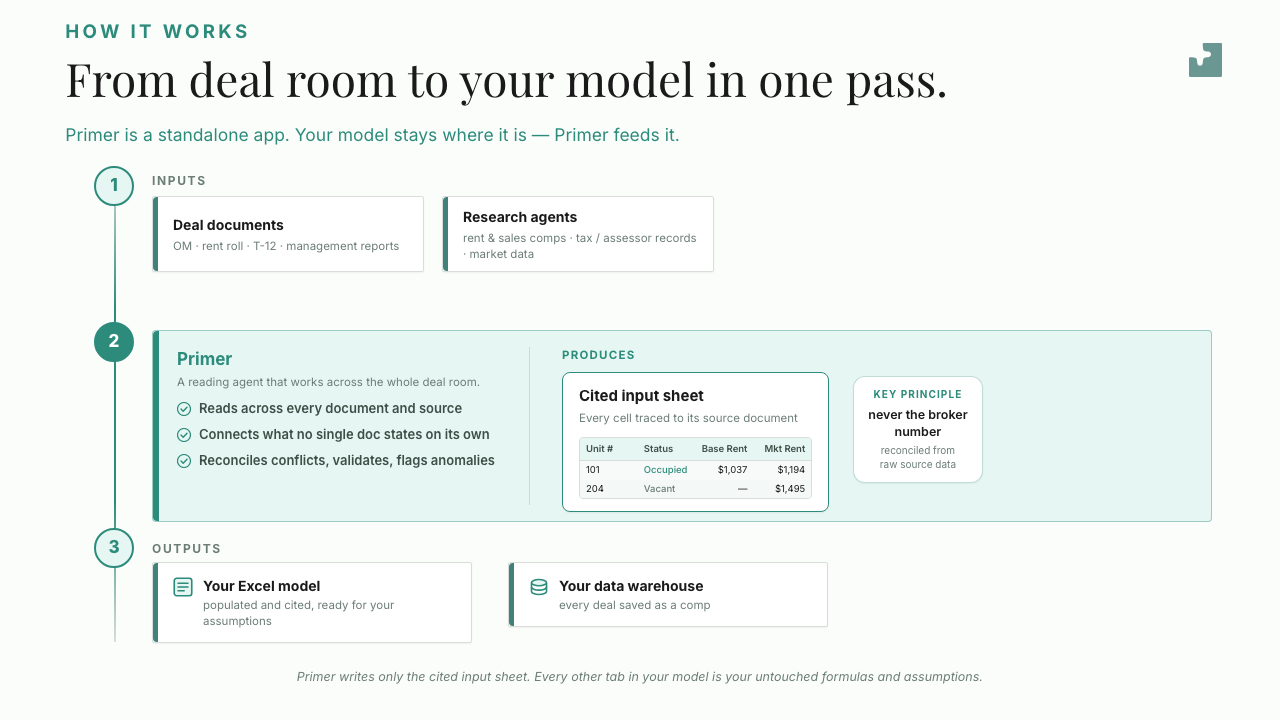
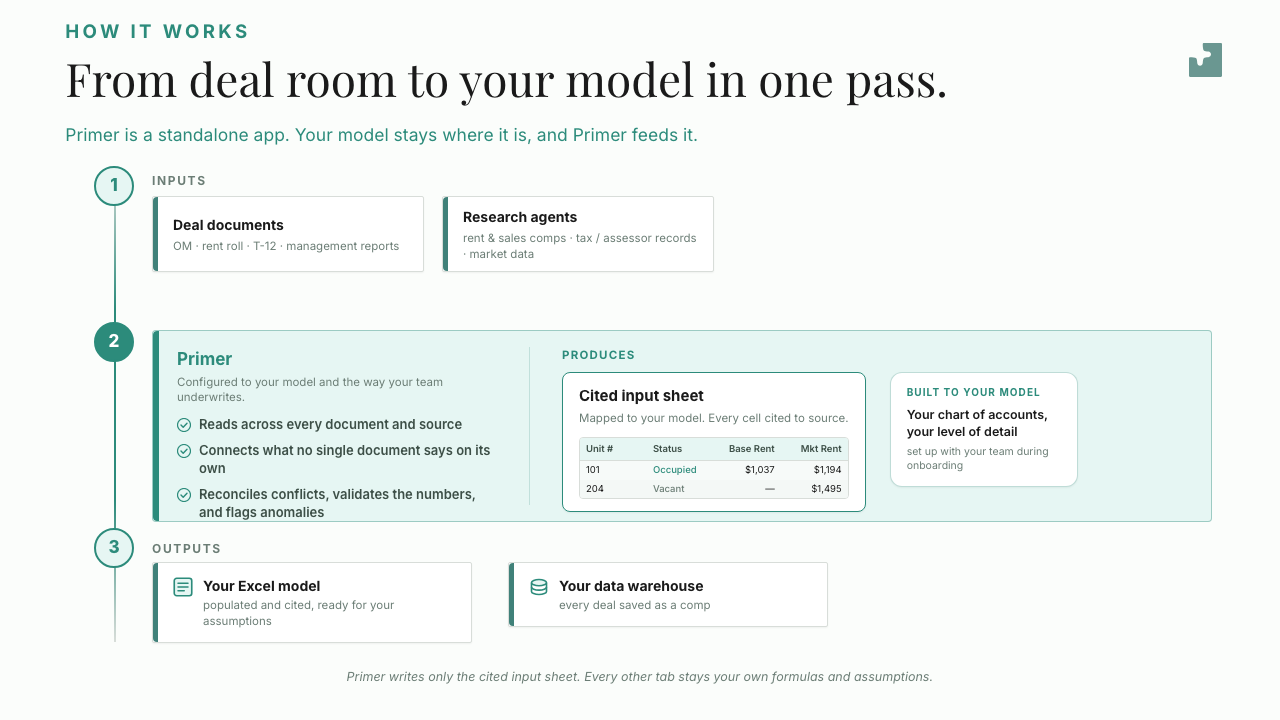
Plain-language copy pass on A1 and B3; lead with "your model"
Ran the copy through the plain-writing reference: simpler words, one idea per
cell, no em dashes, less text per card. The overarching message is now that this
runs in the customer's own model, on their chart of accounts, at their level of
detail, set up with them.

A1 — sub trimmed and reframed to "runs on your chart of accounts and the way
your team underwrites, set up with you." Card 1 now says Primer writes one input
tab mapped to your chart of accounts and your level of detail. Card 2 drops the
"not a full underwrite" line and is a single clear sentence (also fixes the tight
bottom spacing). Card 3 and warehouse line de-dashed and tightened.

B3 — removed the "reading agent" subtitle (it undersold the product) and
replaced it with "Configured to your model and the way your team underwrites."
Removed the "never the broker number" card and put a "Built to your model — your
chart of accounts, your level of detail, set up with your team" callout in its
place. The cited input sheet now reads "Mapped to your model. Every cell cited to
source." Verbs and footer tightened and de-dashed.

B1 left as-is per direction (only A1 and B3 this pass).

diff --git a/B3-numbered-flow.html b/B3-numbered-flow.html
@@ -17,7 +17,7 @@
 
   <div class="b left-[65.3px] top-[18.2px] eyebrow text-[18.7px] tr-179">HOW IT WORKS</div>
   <h2 class="b left-[65.3px] top-[54px] w-[900px] title text-[46px]">From deal room to your model in one pass.</h2>
-  <div class="b left-[65.3px] top-[122px] text-teal text-[17.5px]">Primer is a standalone app. Your model stays where it is — Primer feeds it.</div>
+  <div class="b left-[65.3px] top-[122px] text-teal text-[17.5px]">Primer is a standalone app. Your model stays where it is, and Primer feeds it.</div>
 
   <!-- ── LEFT SPINE with step numbers ──────────────────────── -->
   <!-- Spine line: from ~y=166 to y=646 at x=114 -->
@@ -65,7 +65,7 @@
       <!-- Left: Primer title + verbs -->
       <div class="flex-shrink-0 w-[320px]">
         <div class="text-[17px] font-bold text-teal">Primer</div>
-        <div class="text-[11.5px] text-muted mt-0.5 mb-2.5 leading-snug">A reading agent that works across the whole deal room.</div>
+        <div class="text-[11.5px] text-muted mt-0.5 mb-2.5 leading-snug">Configured to your model and the way your team underwrites.</div>
         <div class="space-y-2">
           <div class="flex items-start gap-2">
             <svg width="14" height="14" viewBox="0 0 14 14" fill="none" class="flex-shrink-0 mt-[2px]"><circle cx="7" cy="7" r="6.5" stroke="#2C8B7B" stroke-width="1.2"/><path d="M4 7l2.2 2.2 3.8-4" stroke="#2C8B7B" stroke-width="1.4" stroke-linecap="round" stroke-linejoin="round"/></svg>
@@ -73,11 +73,11 @@
           </div>
           <div class="flex items-start gap-2">
             <svg width="14" height="14" viewBox="0 0 14 14" fill="none" class="flex-shrink-0 mt-[2px]"><circle cx="7" cy="7" r="6.5" stroke="#2C8B7B" stroke-width="1.2"/><path d="M4 7l2.2 2.2 3.8-4" stroke="#2C8B7B" stroke-width="1.4" stroke-linecap="round" stroke-linejoin="round"/></svg>
-            <span class="text-[13px] font-semibold text-body leading-snug">Connects what no single doc states on its own</span>
+            <span class="text-[13px] font-semibold text-body leading-snug">Connects what no single document says on its own</span>
           </div>
           <div class="flex items-start gap-2">
             <svg width="14" height="14" viewBox="0 0 14 14" fill="none" class="flex-shrink-0 mt-[2px]"><circle cx="7" cy="7" r="6.5" stroke="#2C8B7B" stroke-width="1.2"/><path d="M4 7l2.2 2.2 3.8-4" stroke="#2C8B7B" stroke-width="1.4" stroke-linecap="round" stroke-linejoin="round"/></svg>
-            <span class="text-[13px] font-semibold text-body leading-snug">Reconciles conflicts, validates, flags anomalies</span>
+            <span class="text-[13px] font-semibold text-body leading-snug">Reconciles conflicts, validates the numbers, and flags anomalies</span>
           </div>
         </div>
       </div>
@@ -89,7 +89,7 @@
           <div class="text-[11.5px] font-bold text-teal tr-107 uppercase mb-2">Produces</div>
           <div class="bg-white border border-teal rounded-lg px-4 py-3 shadow-sm inline-block">
             <div class="text-[15px] font-bold text-ink">Cited input sheet</div>
-            <div class="text-[11.5px] text-muted mt-0.5">Every cell traced to its source document</div>
+            <div class="text-[11.5px] text-muted mt-0.5">Mapped to your model. Every cell cited to source.</div>
             <!-- mini spreadsheet preview -->
             <div class="mt-2.5 bg-[#F7FAF9] border border-line rounded text-[9.5px] overflow-hidden">
               <div class="grid grid-cols-4 bg-tint border-b border-line">
@@ -113,11 +113,11 @@
             </div>
           </div>
         </div>
-        <!-- never the broker number callout -->
-        <div class="bg-white border border-teal/30 rounded-xl px-3.5 py-2.5 shadow-sm text-center">
-          <div class="text-[10px] font-bold text-teal uppercase tr-107">Key principle</div>
-          <div class="mt-1 text-[12.5px] font-semibold text-ink leading-snug">never the broker<br>number</div>
-          <div class="mt-1 text-[10px] text-muted leading-snug">reconciled from<br>raw source data</div>
+        <!-- built to your model callout -->
+        <div class="bg-white border border-teal/30 rounded-xl px-4 py-3 shadow-sm w-[188px]">
+          <div class="text-[10px] font-bold text-teal uppercase tr-107">Built to your model</div>
+          <div class="mt-1.5 text-[12.5px] font-semibold text-ink leading-snug">Your chart of accounts, your level of detail</div>
+          <div class="mt-1 text-[10.5px] text-muted leading-snug">set up with your team during onboarding</div>
         </div>
       </div>
     </div>
@@ -152,7 +152,7 @@
 
   <!-- Footer note -->
   <div class="b left-[65.3px] top-[668px] w-[1149px] text-center text-[12.5px] text-muted italic">
-    Primer writes only the cited input sheet. Every other tab in your model is your untouched formulas and assumptions.
+    Primer writes only the cited input sheet. Every other tab stays your own formulas and assumptions.
   </div>
 </section>
 </body>

diff --git a/A1-statement-pillars.html b/A1-statement-pillars.html
@@ -22,7 +22,7 @@
   <h2 class="b left-[65.3px] top-[58px] w-[980px] title text-[48px]">An acquisitions platform that runs your<br>first pass in your own model.</h2>
 
   <!-- Sub -->
-  <p class="b left-[65.3px] top-[184px] w-[940px] text-body text-[18.7px] leading-[1.48]">Forward a deal to Primer or drop it in the app. It reads the entire deal room, runs the market and tax research, and populates your existing Excel model — a citation on every cell. The first-pass model population is what Primer automates today; your assumptions and judgment stay yours.</p>
+  <p class="b left-[65.3px] top-[184px] w-[960px] text-body text-[18.7px] leading-[1.48]">Forward a deal to Primer, or drop it in the app. It reads the whole deal room, pulls market and tax data, and fills in your Excel model with a citation on every cell. It runs on your chart of accounts and the way your team underwrites, set up with you.</p>
 
   <!-- Thin rule before pillars -->
   <div class="b left-[65.3px] top-[311px] w-[1148px] h-px bg-line"></div>
@@ -41,12 +41,12 @@
         </svg>
       </div>
       <div class="mt-[14px] text-[20px] font-bold text-teal leading-tight">Runs in your model</div>
-      <p class="mt-[12px] text-[16.5px] text-body leading-[1.45]">Primer writes one Primer Input worksheet, then maps it into your tabs, formulas, and chart of accounts. Nothing to rebuild or learn.</p>
+      <p class="mt-[12px] text-[16.5px] text-body leading-[1.45]">Primer writes one input tab, mapped to your chart of accounts and your level of detail. Your formulas pull from it, so nothing in your file changes.</p>
       <!-- Proof detail -->
       <div class="mt-[18px] pt-[16px] border-t border-line">
         <div class="text-[13px] text-muted font-medium mb-[8px] uppercase tracking-wide">How it maps</div>
         <div class="text-[12.5px] font-mono bg-[#F4F7F5] text-ink border border-line px-2.5 py-1.5 rounded mb-[6px]">='Primer Input'!BY2</div>
-        <div class="text-[13px] text-muted leading-snug">Your model's formulas point at the Primer Input tab — your own tabs stay untouched.</div>
+        <div class="text-[13px] text-muted leading-snug">Your formulas point at the Primer Input tab.</div>
       </div>
     </div>
   </div>
@@ -66,8 +66,8 @@
         </svg>
       </div>
       <div class="mt-[14px] text-[20px] font-bold text-teal leading-tight">Does the data work</div>
-      <p class="mt-[10px] text-[16.5px] text-body leading-[1.4]">Reads every document, pulls comps and tax data, and reconciles the numbers across sources — model population, not a full underwrite.</p>
-      <div class="mt-[14px] pt-[12px] border-t border-line">
+      <p class="mt-[12px] text-[16.5px] text-body leading-[1.45]">It reads the documents, pulls comps and tax data, and reconciles the numbers across sources.</p>
+      <div class="mt-[18px] pt-[16px] border-t border-line">
         <div class="text-[13px] text-muted font-medium mb-[6px] uppercase tracking-wide">Gross rent · reconciled</div>
         <div class="bg-[#F4F7F5] border border-line rounded-[5px] px-3 py-1.5 text-[12.5px]">
           <div class="flex justify-between text-body"><span>OM</span><span class="font-mono">$4,490,000</span></div>
@@ -91,12 +91,12 @@
         </svg>
       </div>
       <div class="mt-[14px] text-[20px] font-bold text-teal leading-tight">Compounds every deal</div>
-      <p class="mt-[12px] text-[16.5px] text-body leading-[1.45]">Each underwrite is saved as a queryable comp that makes the next one faster.</p>
+      <p class="mt-[12px] text-[16.5px] text-body leading-[1.45]">Every deal you run is saved as a comp, so the next one starts faster.</p>
       <div class="mt-[18px] pt-[16px] border-t border-line">
         <div class="text-[13px] text-muted font-medium mb-[8px] uppercase tracking-wide">From your warehouse</div>
         <div class="bg-tint rounded-[3px] px-3 py-2.5">
-          <div class="text-[12px] text-teal font-semibold mb-1">1,465 comps — Dallas multifamily</div>
-          <div class="text-[11.5px] text-body leading-snug">Every deal you run is saved. Ask Primer: "average insurance per unit on our 15 Phoenix deals."</div>
+          <div class="text-[12px] text-teal font-semibold mb-1">1,465 comps, Dallas multifamily</div>
+          <div class="text-[11.5px] text-body leading-snug">Ask Primer: average insurance per unit across our 15 Phoenix deals.</div>
         </div>
       </div>
     </div>